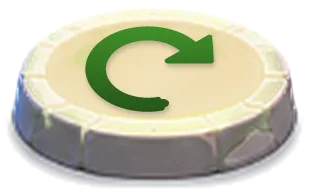
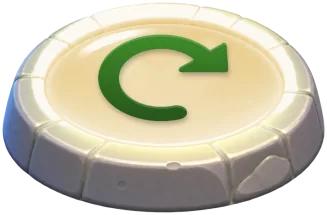
feat: turn tile from the owner's high-resolution pad
Cream face and the owner's traced turn arrow drawn at full resolution,
shrunk once; lines up with the green exit pad.

Design: design/themes/garden-exit.md

Claude-Session: https://claude.ai/code/session_01PBSmYqBfYXyG8SyW6SfNEM
(cherry picked from commit 2c497b6b9e18c95eb2a457e3ea694338b52698e3)

diff --git a/tools/asset-pipeline/garden_exit/turn.py b/tools/asset-pipeline/garden_exit/turn.py
@@ -1,10 +1,19 @@
-"""Turn tile: the owner's green pad retoned cream, tick painted out, and the clockwise arrow of the
-owner's turn button (18-sheet-action-buttons) in leaf green in its place.
+"""Turn tile: the owner's high-resolution green pad (checkpoint-actief) retoned cream, the tick
+painted out, and the clockwise arrow of the owner's turn button (18-sheet-action-buttons) in leaf
+green in its place.
 
-Worked at the output size: the pad is enlarged first, then retoned and painted out there; the arrow is
-traced from the owner's glyph (turn_arrow.py) and filled supersampled at the output size, squashed
-to the face's perspective, with the owner's shading (lighter on top, darker below, as the button's
-arrow) and a soft dark edge under it like the painted tick has.
+Worked at the picture's own resolution (~800 px wide), then shrunk once to the output size, which
+is the exit pads' convention: the pad's stone body is `PAD_STONE_OUT_PX` wide, the anchor is the
+face centre, cells per px = 1 / PAD_STONE_OUT_PX. So the tile lines up with the green exit pad.
+
+- Paint-out: the tick and its glow are filled by normalised convolution of the face around them
+  (a wide blur of the face with the tick left out, divided by the blur of the weights): the face's
+  own smooth shading, without the streaks of inpainting at this size.
+- Retone: the face, its rim of light and the glow in the joints move to cream, keeping the owner's
+  light and shade (lib.retone).
+- Arrow: the owner's glyph is traced and fitted in turn_arrow.py; the fitted shape is filled at the
+  picture's resolution, squashed to the owner's glyph perspective, lighter on top and darker below
+  like the button's arrow, with a soft dark edge under it like the painted tick has.
 """
 from __future__ import annotations
 
@@ -12,68 +21,100 @@ import cv2
 import numpy as np
 from scipy import ndimage
 
-from exit_pads import anchor, source_pad
-from lib import CELLS_PER_SOURCE_PX, CREAM, LEAF, UPSCALE, lit_mask, paint_out, retone, tick_mask, upscale, write_part
+from checkpoints import PAD_STONE_OUT_PX, shrink, source
+from exit_pads import face_ellipse, hires_pad, stone_width
+from lib import CREAM, LEAF, lit_mask, retone, tick_mask, write_part
 from turn_arrow import bounds, fit, render
 
-FACTOR = UPSCALE
-# Arrow width as a share of the face width (the owner's tick is ~0.36; the arrow is a little larger
-# so it reads at game size), and its shading: top/bottom tone factors on LEAF, under-shadow strength.
-ARROW_SHARE = 0.5
-TOP, BOTTOM = 1.35, 0.8
-SHADE = 0.22
-# Vertical squash of the arrow. The face's own ellipse is 40/86 = 0.47, but the owner does not draw
-# glyphs fully foreshortened: the tick on the pad is 17x31 px, about 0.7 of a plain tick's height.
-# At 0.47 the ring reads as a flat dash, so the arrow gets the owner's glyph squash instead.
+# Arrow width as a share of the face width (the owner's tick is ~0.45 of it; the arrow is a little
+# larger than the old 0.5 so the ring reads at game size).
+ARROW_SHARE = 0.52
+# Vertical squash of the arrow: the owner's glyphs are drawn at about 0.7 of their plain height.
 SQUASH = 0.7
+# Arrow shading: top/bottom tone factors on LEAF; strength of the soft dark edge under it and its
+# offset/blur as shares of the face width; a thin light rim on the arrow's upper edge.
+TOP, BOTTOM = 1.3, 0.78
+SHADE, SHADE_DROP, SHADE_BLUR = 0.3, 0.012, 0.01
+RIM = 0.18
+# How strongly the face keeps the owner's light and shade after retoning (1 = all of it).
+KEEP_LIGHT = 0.8
+# Reach of the ring of light round the face, as a share of the face width.
+RING = 0.03
+# Paint-out: grow of the tick mask to take its glow (share of face width) and the fill's blur.
+TICK_GROW, FILL_BLUR = 0.04, 0.12
 
 
-def face(src: np.ndarray) -> tuple[np.ndarray, tuple[float, float], float, float]:
-    """The lit face of the source pad: mask, centre (x, y), width and height in source px."""
-    m = ndimage.binary_fill_holes(ndimage.binary_closing(lit_mask(src) > 0.5, iterations=6))
+def face(rgba: np.ndarray) -> tuple[np.ndarray, tuple[float, float], float]:
+    """The lit face (the lime ellipse inside the stones, without the joint glow): mask, centre, width."""
+    lit = lit_mask(rgba) > 0.5
+    m = ndimage.binary_fill_holes(ndimage.binary_closing(lit, iterations=4))
+    # The thin glowing joints between stones touch the face: a wide opening drops them.
+    disc = cv2.getStructuringElement(cv2.MORPH_ELLIPSE, (41, 41))
+    m = cv2.morphologyEx(m.astype(np.uint8), cv2.MORPH_OPEN, disc) > 0
     lab, n = ndimage.label(m)
-    sizes = ndimage.sum(m, lab, range(1, n + 1))
-    m = lab == int(np.argmax(sizes)) + 1
-    ys, xs = np.nonzero(m)
-    return m, (xs.mean(), ys.mean()), float(xs.max() - xs.min() + 1), float(ys.max() - ys.min() + 1)
+    m = lab == int(np.argmax(ndimage.sum(m, lab, range(1, n + 1)))) + 1
+    cnt, _ = cv2.findContours(m.astype(np.uint8), cv2.RETR_EXTERNAL, cv2.CHAIN_APPROX_NONE)
+    (cx, cy), (a, b), _ = cv2.fitEllipse(max(cnt, key=cv2.contourArea))
+    return m, (cx, cy), float(max(a, b))
 
 
-def grow(mask: np.ndarray, size: tuple[int, int]) -> np.ndarray:
-    """A 0..1 mask from the source enlarged smoothly to the output size (width, height)."""
-    return np.clip(cv2.resize(mask.astype(np.float32), size, interpolation=cv2.INTER_CUBIC), 0, 1)
+def paint_out(rgba: np.ndarray, face_m: np.ndarray, tick: np.ndarray, face_w: float) -> np.ndarray:
+    """Fill the tick (and its glow) from the face around it by normalised convolution."""
+    out = rgba.copy()
+    hole = ndimage.binary_dilation(tick, iterations=max(1, int(TICK_GROW * face_w)))
+    w = (face_m & ~hole).astype(np.float32)
+    s = FILL_BLUR * face_w
+    num = cv2.GaussianBlur(rgba[..., :3].astype(np.float32) * w[..., None], (0, 0), s)
+    den = cv2.GaussianBlur(w, (0, 0), s)[..., None]
+    fill = num / np.maximum(den, 1e-4)
+    k = cv2.GaussianBlur(hole.astype(np.float32), (0, 0), 0.015 * face_w)[..., None] * face_m[..., None]
+    out[..., :3] = rgba[..., :3] * (1 - k) + fill * k
+    return out
+
+
+def tile() -> tuple[np.ndarray, tuple[float, float]]:
+    """The turn tile at the picture's resolution, and its anchor (face centre) in those px."""
+    green = source("green")
+    face_m, _, face_w = face(green)
+    # Centre on the exit pads' own face ellipse, so the arrow sits on the anchor they use.
+    cx, cy, _, _ = face_ellipse(green, "green")
+    h, w = green.shape[:2]
+
+    img = paint_out(green, face_m, tick_mask(green), face_w)
+    # Retone mask: the whole face (its deeper greens fall outside lit_mask's hue window), the ring of
+    # light round it, and the glow in the joints.
+    lit = np.clip(lit_mask(img) * 1.6, 0, 1)
+    ring = ndimage.binary_dilation(face_m, iterations=int(RING * face_w)) & (lit_mask(img) > 0.05)
+    lit = np.maximum(lit, (face_m | ring).astype(np.float32))
+    lit = np.clip(cv2.GaussianBlur(lit.astype(np.float32), (0, 0), 1.5), 0, 1)
+    img = retone(img, lit, CREAM, keep_light=KEEP_LIGHT)
+
+    # The arrow, fitted to the owner's glyph, filled at this resolution in the face's perspective.
+    p = fit()
+    # The fitted tail cap (0.6 of the ring's half width) leaves a ragged end at this size: round it fully.
+    p[9] = 1.0
+    x0, y0, x1, y1 = bounds(p)
+    scale = ARROW_SHARE * face_w / (x1 - x0)
+    arrow = render(p, h, w, scale=scale, squash=SQUASH, ss=3, at=((cx, cy), ((x0 + x1) / 2, (y0 + y1) / 2)))
+
+    ys = np.nonzero(arrow.max(axis=1) > 0.01)[0]
+    v = np.clip((np.arange(h) - ys.min()) / max(1, ys.max() - ys.min()), 0, 1)[:, None, None]
+    tone = np.clip(np.array(LEAF, dtype=float) * (TOP + (BOTTOM - TOP) * v), 0, 255)
+    # A thin light rim along the arrow's upper edges (the owner's glyphs catch the light on top).
+    edge = np.clip(arrow - ndimage.shift(arrow, (0.008 * face_w, 0), order=1), 0, 1)[..., None]
+    tone = tone + (255 - tone) * edge * RIM
+    under = ndimage.shift(arrow, (SHADE_DROP * face_w, 0.3 * SHADE_DROP * face_w), order=1)
+    under = cv2.GaussianBlur(under.astype(np.float32), (0, 0), SHADE_BLUR * face_w) * SHADE
+    rgb = img[..., :3] * (1 - under[..., None])
+    a = arrow[..., None]
+    img[..., :3] = rgb * (1 - a) + tone * a
+    return img, (cx, cy)
 
 
 def run() -> None:
-    green = source_pad("green")
-    _, (cx, cy), face_w, face_h = face(green)
-    big = upscale(green, FACTOR)
-    h, w = big.shape[:2]
-
-    # Retone and paint out at the output size; the masks are measured on the source and enlarged.
-    lit = np.clip(grow(np.clip(lit_mask(green) * 1.6, 0, 1), (w, h)), 0, 1)
-    tick = grow(tick_mask(green), (w, h)) > 0.4
-    img = paint_out(retone(big, lit, CREAM, keep_light=0.45), tick)
-    # Inpainting at this size leaves a faint smear: smooth the painted area into the face around it.
-    soft = cv2.GaussianBlur(ndimage.binary_dilation(tick, iterations=FACTOR * 2).astype(np.float32), (0, 0), FACTOR * 1.5)[..., None]
-    img[..., :3] = img[..., :3] * (1 - soft) + cv2.GaussianBlur(img[..., :3].astype(np.float32), (0, 0), FACTOR * 2.5) * soft
-
-    # The arrow, traced from the owner's glyph and drawn at the output size in the face's perspective.
-    p = fit()
-    x0, y0, x1, y1 = bounds(p)
-    scale = ARROW_SHARE * face_w * FACTOR / (x1 - x0)
-    squash = SQUASH
-    at = ((cx * FACTOR, cy * FACTOR), ((x0 + x1) / 2, (y0 + y1) / 2))
-    arrow = render(p, h, w, scale=scale, squash=squash, ss=4, at=at)
-
-    # Shading: the owner's arrow is light on top and shaded below; a soft dark edge sits under it.
-    ys = np.nonzero(arrow.max(axis=1) > 0.01)[0]
-    v = np.clip((np.arange(h) - ys.min()) / max(1, ys.max() - ys.min()), 0, 1)[:, None, None]
-    tone = np.array(LEAF, dtype=float) * (TOP + (BOTTOM - TOP) * v)
-    under = ndimage.shift(arrow, (1.2 * FACTOR, 0.4 * FACTOR), order=1)
-    under = cv2.GaussianBlur(under.astype(np.float32), (0, 0), 0.8 * FACTOR) * SHADE
-    rgb = img[..., :3] * (1 - under[..., None])
-    a = arrow[..., None]
-    img[..., :3] = rgb * (1 - a) + np.clip(tone, 0, 255) * a
-
-    at_px = anchor("green", green)
-    write_part("turn", {"turn": (img, (at_px[0] * FACTOR, at_px[1] * FACTOR), CELLS_PER_SOURCE_PX / FACTOR)})
+    img, _ = tile()
+    # Same scale and anchor as the green exit pad (exit_pads.hires_pad), so the two line up exactly.
+    pad, anchor = hires_pad("green")
+    small = shrink(img, PAD_STONE_OUT_PX / stone_width(source("green"), "green"))
+    assert small.shape == pad.shape, (small.shape, pad.shape)
+    write_part("turn", {"turn": (small, anchor, 1.0 / PAD_STONE_OUT_PX)})

diff --git a/tools/asset-pipeline/garden_exit/colour_exits.py b/tools/asset-pipeline/garden_exit/colour_exits.py
@@ -39,7 +39,7 @@ from lib import CONFIG, TONES, hue_sat_val, write_part
 SS = 8                      # supersampling of drawn shapes
 HOLE_PX = 26                # tick painted out this far around it (source px): covers its glow
 RING_PX = 22                # ring around the hole the fill is fitted to
-SHAPE_BOX = 0.36            # shape box width as a share of the face ellipse width
+SHAPE_BOX = 0.33            # shape box width as a share of the face ellipse width
 SQUASH_POWER = 0.55         # shape squash = (face height / width) ** this; 1 would be the face's own
 DEEP_DARKEN = 0.72          # yellow tick: lightness of colors.robots.yellow.deep times this
 KEEP_LIGHT = 0.85           # share of the lime face's own light and shade the retoned face keeps
